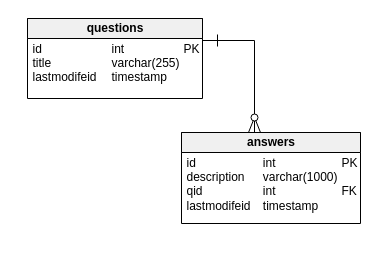
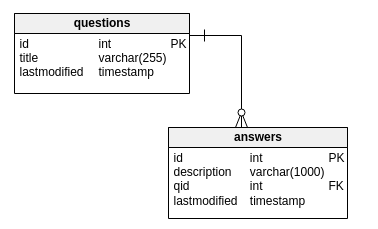
improve db and some fixes

diff --git a/database/migrations/2015_11_03_170236_create_answers_table.php b/database/migrations/2015_11_03_170236_create_answers_table.php
@@ -5,31 +5,31 @@ use Illuminate\Database\Migrations\Migration;
 
 class CreateAnswersTable extends Migration {
 
-	/**
-	 * Run the migrations.
-	 *
-	 * @return void
-	 */
-	public function up()
-	{
-		Schema::create('answers', function(Blueprint $table)
-		{
-			$date = date('Y-m-d H:i:s', time());
-			$table->increments('id');
-			$table->string('description', 1100);
-			$table->integer('qid');
-			$table->datetime('lastmodified')->$date;
-		});
-	}
+    /**
+     * Run the migrations.
+     *
+     * @return void
+     */
+    public function up()
+    {
+        Schema::create('answers', function(Blueprint $table)
+        {
+            $table->increments('id');
+            $table->string('description', 1100);
+            $table->integer('qid');
+            $table->datetime('lastmodified');
+            $table->timestamps();
+        });
+    }
 
-	/**
-	 * Reverse the migrations.
-	 *
-	 * @return void
-	 */
-	public function down()
-	{
-		Schema::drop('answers');
-	}
+    /**
+     * Reverse the migrations.
+     *
+     * @return void
+     */
+    public function down()
+    {
+        Schema::drop('answers');
+    }
 
 }

diff --git a/database/migrations/2015_11_03_165908_create_questions_table.php b/database/migrations/2015_11_03_165908_create_questions_table.php
@@ -5,30 +5,30 @@ use Illuminate\Database\Migrations\Migration;
 
 class CreateQuestionsTable extends Migration {
 
-	/**
-	 * Run the migrations.
-	 *
-	 * @return void
-	 */
-	public function up()
-	{
-		Schema::create('questions', function(Blueprint $table)
-		{
-			$date = date('Y-m-d H:i:s', time());
-			$table->increments('id');
-			$table->string('title', 300);
-			$table->datetime('lastmodified')->$date;
-		});
-	}
+    /**
+     * Run the migrations.
+     *
+     * @return void
+     */
+    public function up()
+    {
+        Schema::create('questions', function(Blueprint $table)
+        {
+            $table->increments('id');
+            $table->string('title', 300);
+            $table->datetime('lastmodified');
+            $table->timestamps();
+        });
+    }
 
-	/**
-	 * Reverse the migrations.
-	 *
-	 * @return void
-	 */
-	public function down()
-	{
-		Schema::drop('questions');
-	}
+    /**
+     * Reverse the migrations.
+     *
+     * @return void
+     */
+    public function down()
+    {
+        Schema::drop('questions');
+    }
 
 }

diff --git a/resources/views/landing.blade.php b/resources/views/landing.blade.php
@@ -13,7 +13,7 @@
                 @include('forms.homeform')
                 <div class="panel-body home_style">
 
-                    @if ($questions == null )
+                    @if ($questions->count() == 0 )
                         No Questions, <a href="{{ url('createview') }}" class="btn btn-link js-submit">Create Now</a>
                     @else
 

diff --git a/app/Models/answers.php b/app/Models/answers.php
@@ -6,7 +6,7 @@ class answers extends Model
 {
     public static function add_answer($fields, $qid)
     {
-        if(!is_numeric($qid))
+        if(!is_numeric($qid)) // qid comes in array, just for making it sure a check when array then go in loop foreach
         {
             $qid = $qid[0];
             foreach ($qid as $key => $value)

diff --git a/resources/views/forms/pagination.blade.php b/resources/views/forms/pagination.blade.php
@@ -1,6 +1,3 @@
-<!-- This rendering can also be use but not for groupby querys - need to find out more -->
-<!-- {!! $questions->render() !!} -->
-
 <ul class="pagination">
 @for ($i = 1; $i <= $reqPagination; $i++)
     <li class=<?php echo ( $i == $active ) ? 'active' : ''; ?>>
